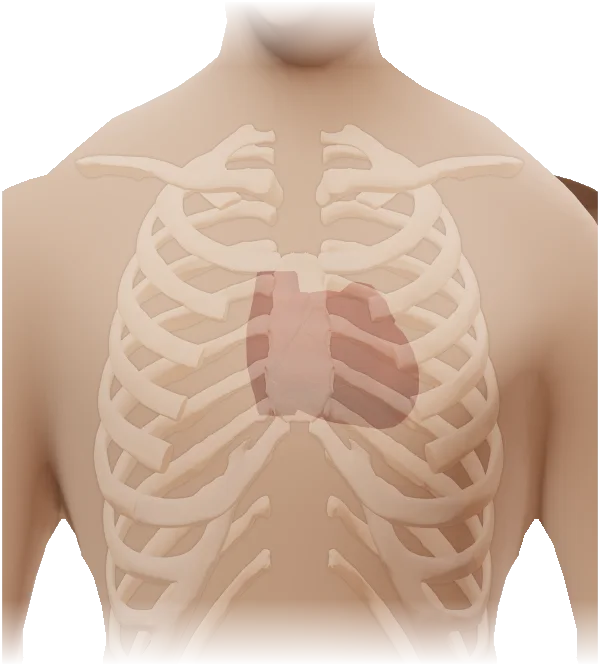
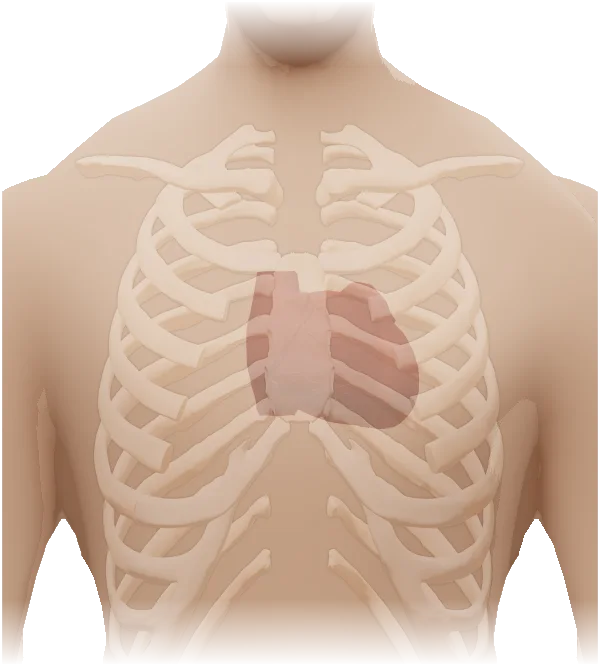
Sound trainer: listening sites on the real chest, placed by landmarks
The chest was a hand-drawn outline with schematic ribs. It is now the body
map's model rendered flat with ribs, costal cartilages, sternum, clavicles
and heart faintly under the skin (back: scapulae, spine, ribs), and each of
the 14 sites sits where the skeleton puts it, measured in 3D and projected:
aortic/pulmonic at the 2nd ICS sternal borders, Erb's at the 3rd left,
tricuspid at the 4th-5th lower left sternal border, mitral at the 5th ICS
left MCL, lung apices below the clavicles at the MCL, bases at the 7th rib's
midaxillary point, posterior sites from the scapulae. ICS numbers and MCL
guides drawn from the same data. Per-site sound mix, strips and quizzes
unchanged. Credit for the derived figure added.

Claude-Session: https://claude.ai/code/session_01UeWTEQ6NVFRbpLu7WhKKom

diff --git a/nremt/assets/sound-stage.js b/nremt/assets/sound-stage.js
@@ -5,13 +5,18 @@
    One job: hear each sound where it is actually listened for, and see when
    in the heartbeat or the breath it falls.
 
-   Why a 2D chest and not the 3D body (LevlBodyViewer): auscultation points
-   are defined by surface landmarks (the 2nd intercostal space at the right
-   sternal border, the 5th at the midclavicular line). The 3D model is bones
-   and organs, 4 MB, lazy-loaded, and rotates; on a 390 px phone five heart
-   sites sit within about 2 cm of each other on it and a rotated view moves
-   them. A flat front and back view with the ribs drawn puts each site at a
-   fixed, countable place, loads at once and is tappable on a phone.
+   Why a flat chest and not the live 3D body (LevlBodyViewer): auscultation
+   points are defined by surface landmarks (the 2nd intercostal space at the
+   right sternal border, the 5th at the midclavicular line). The 3D model is
+   4 MB, lazy-loaded, and rotates; on a 390 px phone five heart sites sit
+   within about 2 cm of each other on it and a rotated view moves them. So the
+   same model is rendered flat instead (scripts/build-body-figures.mjs): the
+   torso with its ribs, costal cartilages, sternum, clavicles and heart (back:
+   scapulae, spine and ribs) faintly under the skin, and every site placed from
+   the skeleton's own landmarks, measured in 3D and projected (the rib ends
+   give the intercostal spaces, the clavicles the midclavicular lines, the 7th
+   rib's lateral point the midaxillary line, the scapulae the posterior sites).
+   The drawing's x, y below are the fallback until that data loads.
 
    Modes: explore (pick a finding, tap a site, hear it there, see the strip,
    compare two side by side), where (tap where you would listen for X) and
@@ -31,50 +36,51 @@
   function say(t){ if(window.LevlAnnounce) window.LevlAnnounce.say(t); }
 
   /* ---- The sites ---------------------------------------------------------
-     x, y in a 300 x 330 drawing of the torso. Front view: the patient's right
+     x, y in the 600 x 660 chest figure (replaced by the measured landmarks
+     from body-figs/chest.js when it loads). Front view: the patient's right
      is on the viewer's left. Back view: the patient's left is on the viewer's
      left. */
   var SITES = [
-    { id:'trachea',  view:'front', x:150, y:22,  kind:'airway', name:'Over the trachea',
+    { id:'trachea',  view:'front', x:300, y:44,  kind:'airway', name:'Over the trachea',
       where:'Front of the neck, above the sternal notch.',
       note:'Stridor is made in the upper airway, so it is loudest here; often you can hear it without a stethoscope.' },
-    { id:'aortic',   view:'front', x:128, y:100, kind:'heart', name:'Aortic area',
+    { id:'aortic',   view:'front', x:256, y:200, kind:'heart', name:'Aortic area',
       where:'2nd intercostal space, right sternal border.',
       note:'The base of the heart: S2 is louder than S1 here. The murmur of aortic stenosis is loudest here and carries up into the neck.' },
-    { id:'pulmonic', view:'front', x:172, y:100, kind:'heart', name:'Pulmonic area',
+    { id:'pulmonic', view:'front', x:344, y:200, kind:'heart', name:'Pulmonic area',
       where:'2nd intercostal space, left sternal border.',
       note:'Also the base, so S2 is loud. The pulmonic part of S2 (P2) is soft and heard mainly here, which makes this the place to hear S2 split.' },
-    { id:'erb',      view:'front', x:172, y:126, kind:'heart', name:'Erb’s point',
+    { id:'erb',      view:'front', x:344, y:252, kind:'heart', name:'Erb’s point',
       where:'3rd intercostal space, left sternal border.',
       note:'Halfway between base and apex: S1 and S2 come through about equally. The diastolic murmur of aortic regurgitation is often loudest here.' },
-    { id:'tricuspid',view:'front', x:166, y:158, kind:'heart', name:'Tricuspid area',
+    { id:'tricuspid',view:'front', x:332, y:316, kind:'heart', name:'Tricuspid area',
       where:'4th to 5th intercostal space, lower left sternal border.',
       note:'Over the right ventricle. S1 is louder than S2 here.' },
-    { id:'mitral',   view:'front', x:212, y:170, kind:'heart', name:'Mitral area (apex)',
+    { id:'mitral',   view:'front', x:424, y:340, kind:'heart', name:'Mitral area (apex)',
       where:'5th intercostal space, left midclavicular line.',
       note:'The apex: S1 is loudest here. S3 and S4 are best heard here with the bell, with the patient rolled onto the left side.' },
-    { id:'lung-ru',  view:'front', x:86,  y:84,  kind:'lung', side:'right', level:'upper', name:'Right lung apex',
+    { id:'lung-ru',  view:'front', x:172, y:168,  kind:'lung', side:'right', level:'upper', name:'Right lung apex',
       where:'Just below the right clavicle, midclavicular line.',
       note:'Compare with the same spot on the left: a difference side to side is the finding.' },
-    { id:'lung-lu',  view:'front', x:214, y:76,  kind:'lung', side:'left', level:'upper', name:'Left lung apex',
+    { id:'lung-lu',  view:'front', x:428, y:152,  kind:'lung', side:'left', level:'upper', name:'Left lung apex',
       where:'Just below the left clavicle, midclavicular line.',
       note:'Compare with the same spot on the right.' },
-    { id:'lung-rl',  view:'front', x:52,  y:214, kind:'lung', side:'right', level:'lower', name:'Right lung base (side)',
+    { id:'lung-rl',  view:'front', x:104, y:428, kind:'lung', side:'right', level:'lower', name:'Right lung base (side)',
       where:'Right midaxillary line, lower ribs.',
       note:'The bases are where fluid settles, so the crackles of early pulmonary edema show up here first.' },
-    { id:'lung-ll',  view:'front', x:248, y:214, kind:'lung', side:'left', level:'lower', name:'Left lung base (side)',
+    { id:'lung-ll',  view:'front', x:496, y:428, kind:'lung', side:'left', level:'lower', name:'Left lung base (side)',
       where:'Left midaxillary line, lower ribs.',
       note:'Compare with the right base at the same level.' },
-    { id:'back-lu',  view:'back',  x:118, y:96,  kind:'lung', side:'left', level:'upper', name:'Left upper back',
+    { id:'back-lu',  view:'back',  x:236, y:192,  kind:'lung', side:'left', level:'upper', name:'Left upper back',
       where:'Between the left shoulder blade and the spine.',
       note:'Most lung tissue lies behind: the back is where breath sounds are easiest to compare side to side.' },
-    { id:'back-ru',  view:'back',  x:182, y:96,  kind:'lung', side:'right', level:'upper', name:'Right upper back',
+    { id:'back-ru',  view:'back',  x:364, y:192,  kind:'lung', side:'right', level:'upper', name:'Right upper back',
       where:'Between the right shoulder blade and the spine.',
       note:'Compare with the left at the same level.' },
-    { id:'back-ll',  view:'back',  x:104, y:226, kind:'lung', side:'left', level:'lower', name:'Left lower back (base)',
+    { id:'back-ll',  view:'back',  x:208, y:452, kind:'lung', side:'left', level:'lower', name:'Left lower back (base)',
       where:'Below the tip of the left shoulder blade.',
       note:'The lung bases are largely posterior. Crackles from fluid are heard here first, in a patient sitting up.' },
-    { id:'back-rl',  view:'back',  x:196, y:226, kind:'lung', side:'right', level:'lower', name:'Right lower back (base)',
+    { id:'back-rl',  view:'back',  x:392, y:452, kind:'lung', side:'right', level:'lower', name:'Right lower back (base)',
       where:'Below the tip of the right shoulder blade.',
       note:'Compare with the left base at the same level.' }
   ];
@@ -159,45 +165,37 @@
     if(parent) parent.appendChild(n);
     return n;
   }
-  var HALF = [[128,0],[128,34],[96,44],[62,52],[38,64],[26,90],[32,130],[38,180],[40,240],[46,290],[52,330]];
-  function torsoPath(){
-    var l = HALF.map(function(p){ return p[0] + ' ' + p[1]; });
-    var r = HALF.slice().reverse().map(function(p){ return (300 - p[0]) + ' ' + p[1]; });
-    return 'M' + l.join(' L') + ' L' + r.join(' L') + ' Z';
-  }
-  function drawBody(svg, view){
-    while(svg.firstChild) svg.removeChild(svg.firstChild);
-    var g = el('g', { 'aria-hidden':'true' }, svg);
-    el('path', { d: torsoPath(), class:'st-skin' }, g);
-    if(view === 'front'){
-      // lungs and heart, faint
-      el('path', { d:'M138 64 C110 60 70 80 60 140 C54 190 56 230 62 252 C90 246 120 238 136 232 Z', class:'st-organ' }, g);
-      el('path', { d:'M162 64 C190 60 230 80 240 140 C246 190 244 230 238 252 C214 246 200 240 196 236 C206 200 204 170 190 150 C180 120 168 100 162 64 Z', class:'st-organ' }, g);
-      el('path', { d:'M136 104 C150 96 176 100 190 116 C210 138 222 160 214 178 C200 190 170 184 150 172 C132 160 124 128 136 104 Z', class:'st-heart' }, g);
-      // ribs and intercostal spaces
-      for(var i = 0; i < 7; i++){
-        var y = 66 + i * 22 + (i ? 4 : 0);
-        el('path', { d:'M140 ' + y + ' Q100 ' + (y + 4) + ' ' + (58 - i) + ' ' + (y + 22), class:'st-rib' }, g);
-        el('path', { d:'M160 ' + y + ' Q200 ' + (y + 4) + ' ' + (242 + i) + ' ' + (y + 22), class:'st-rib' }, g);
-      }
-      el('path', { d:'M146 56 Q110 46 66 54 M154 56 Q190 46 234 54', class:'st-bone' }, g); // clavicles
-      el('rect', { x:141, y:56, width:18, height:136, rx:7, class:'st-bone st-sternum' }, g);
-      // landmark lines
-      el('line', { x1:86, y1:60, x2:86, y2:260, class:'st-guide' }, g);
-      el('line', { x1:214, y1:60, x2:214, y2:260, class:'st-guide' }, g);
-      ['2','3','4','5'].forEach(function(n, k){
-        var t = el('text', { x:150, y:104 + k * 24, class:'st-ics' }, g); t.textContent = n;
+  /* Site positions from the rendered figure's measured landmarks. */
+  function placeSites(F){
+    ['front', 'back'].forEach(function(v){
+      var f = F && F.figs['chest-' + v];
+      if(!f) return;
+      SITES.forEach(function(s){
+        var p = s.view === v && f.landmarks[s.id];
+        if(p){ s.x = p[0]; s.y = p[1]; }
       });
-      lab(g, 18, 18, 'R'); lab(g, 282, 18, 'L');
-      var cap = el('text', { x:86, y:274, class:'st-cap' }, g); cap.textContent = 'MCL';
-      var cap2 = el('text', { x:214, y:274, class:'st-cap' }, g); cap2.textContent = 'MCL';
+    });
+  }
+  function drawBody(svg, view, F){
+    while(svg.firstChild) svg.removeChild(svg.firstChild);
+    var f = F && F.figs['chest-' + view];
+    svg.setAttribute('viewBox', '0 0 600 660');
+    var g = el('g', { 'aria-hidden':'true' }, svg);
+    if(!f) return;
+    el('image', { href: F.url(f), width: f.w, height: f.h, class:'st-img' }, g);
+    var L = f.landmarks;
+    if(view === 'front'){
+      // the midclavicular lines and the intercostal space numbers at the left sternal border
+      L.mclX.forEach(function(x){ el('line', { x1:x, y1:L.mclTop, x2:x, y2:L.mclBottom, class:'st-guide' }, g); });
+      var ex = L.sternumX - L.sternalHalfPx - 66;
+      [2, 3, 4, 5].forEach(function(n){
+        var t = el('text', { x: ex, y: L.icsY[n], class:'st-ics', dy:'0.35em' }, g); t.textContent = n;
+      });
+      var cap = el('text', { x: ex, y: L.icsY[5] + 36, class:'st-cap' }, g); cap.textContent = 'ICS';
+      L.mclX.forEach(function(x){ var c = el('text', { x:x, y:L.mclBottom + 22, class:'st-cap' }, g); c.textContent = 'MCL'; });
+      lab(g, 30, 40, 'R'); lab(g, 570, 40, 'L');
     } else {
-      el('path', { d:'M138 60 C110 56 66 80 58 150 C52 210 56 250 64 272 L138 272 Z', class:'st-organ' }, g);
-      el('path', { d:'M162 60 C190 56 234 80 242 150 C248 210 244 250 236 272 L162 272 Z', class:'st-organ' }, g);
-      for(var v = 0; v < 13; v++) el('rect', { x:144, y:40 + v * 19, width:12, height:13, rx:3, class:'st-bone' }, g);
-      el('path', { d:'M66 66 L132 70 L120 112 L94 178 Z', class:'st-scap' }, g);
-      el('path', { d:'M234 66 L168 70 L180 112 L206 178 Z', class:'st-scap' }, g);
-      lab(g, 18, 18, 'L'); lab(g, 282, 18, 'R');
+      lab(g, 30, 40, 'L'); lab(g, 570, 40, 'R');
     }
   }
   function lab(g, x, y, t){ var n = el('text', { x:x, y:y, class:'st-rl' }, g); n.textContent = t; }
@@ -207,10 +205,10 @@
     SITES.filter(function(s){ return s.view === view; }).forEach(function(s){
       var g = el('g', { class:'st-site st-site--' + s.kind, 'data-site': s.id, role:'button', tabindex:'0',
         'aria-label': s.name + ', ' + s.where }, svg);
-      el('circle', { cx:s.x, cy:s.y, r:22, class:'st-halo' }, g);
-      el('circle', { cx:s.x, cy:s.y, r:19, class:'st-hit' }, g);
-      el('circle', { cx:s.x, cy:s.y, r:10, class:'st-dot' }, g);
-      el('circle', { cx:s.x, cy:s.y, r:3.5, class:'st-core' }, g);
+      el('circle', { cx:s.x, cy:s.y, r:40, class:'st-halo' }, g);
+      el('circle', { cx:s.x, cy:s.y, r:34, class:'st-hit' }, g);
+      el('circle', { cx:s.x, cy:s.y, r:17, class:'st-dot' }, g);
+      el('circle', { cx:s.x, cy:s.y, r:6, class:'st-core' }, g);
       g.addEventListener('click', function(){ opts.onTap(s); });
       g.addEventListener('keydown', function(e){
         if(e.key === 'Enter' || e.key === ' '){ e.preventDefault(); opts.onTap(s); }
@@ -442,7 +440,8 @@
         '<div class="st-fig">' +
           '<div class="st-views" role="group" aria-label="Side of the body">' +
             '<button type="button" data-view="front">Front</button><button type="button" data-view="back">Back</button></div>' +
-          '<svg class="st-body" viewBox="0 0 300 330" aria-label="Chest, front view. Each listening spot is a button."></svg>' +
+          '<svg class="st-body" viewBox="0 0 600 660" aria-label="Chest, front view. Each listening spot is a button."></svg>' +
+          '<p class="st-credit">Figure rendered from <a href="https://lifesciencedb.jp/bp3d/" target="_blank" rel="noopener">BodyParts3D</a>, © 2008 Life Science Integrated Database Center, <a href="https://creativecommons.org/licenses/by-sa/2.1/jp/deed.en" target="_blank" rel="noopener">CC BY-SA 2.1 Japan</a>.</p>' +
         '</div>' +
         '<div class="st-side"></div>' +
       '</div>' +
@@ -454,7 +453,12 @@
     var main = root.querySelector('.st-main');
     var timingBox = root.querySelector('.st-timing');
     var quizSection = opts.quizSection;
-    var siteEls = {};
+    var siteEls = {}, figs = null;
+    if(window.LevlBodyFigs) window.LevlBodyFigs.load('chest', function(F){
+      if(!F) return;
+      figs = F; placeSites(F);
+      if(typeof st !== "undefined" && st && st.view) setView(st.view);
+    });
 
     /* volume */
     var mute = root.querySelector('.st-mute'), range = root.querySelector('.st-range');
@@ -487,7 +491,7 @@
       st.view = v;
       root.querySelectorAll('[data-view]').forEach(function(b){ b.setAttribute('aria-pressed', b.dataset.view === v ? 'true' : 'false'); });
       svg.setAttribute('aria-label', 'Chest, ' + (v === 'front' ? 'front' : 'back') + ' view. Each listening spot is a button.');
-      drawBody(svg, v);
+      drawBody(svg, v, figs);
       siteEls = drawSites(svg, v, { onTap: tapSite });
       paintSites();
       if(st.mode === 'where' && st.whereAnswered && st.where){
@@ -554,7 +558,7 @@
         var halo = g.querySelector('.st-halo');
         if(st.mode === 'explore' && sound){
           var k = strength(sound, s);
-          halo.setAttribute('r', (11 + 9 * k).toFixed(1));
+          halo.setAttribute('r', (20 + 18 * k).toFixed(1));
           halo.style.opacity = (0.06 + 0.34 * k).toFixed(2);
           g.classList.toggle('is-best', BEST[sound.id] && BEST[sound.id].at.indexOf(id) >= 0);
         } else {

diff --git a/nremt/sound-trainer.html b/nremt/sound-trainer.html
@@ -36,6 +36,7 @@
      Blocking, because the inline script below calls it while rendering. -->
 <script src="assets/sound-bank.js" defer></script>
 <script src="assets/tool-results.js" defer></script>
+<script src="assets/body-figures.js" defer></script>
 <script src="assets/sound-stage.js" defer></script>
 <link rel="stylesheet" href="../assets/fonts/fonts.css">
 <style>
@@ -205,35 +206,32 @@
   .st-fig{position:relative;background:var(--white);border:2px solid var(--line);border-radius:var(--radius);box-shadow:var(--lift);padding:10px 10px 4px;}
   .st-views{position:absolute;top:10px;right:10px;display:flex;gap:4px;z-index:1;}
   .st-views button{padding:5px 12px;font-size:12.5px;min-height:40px;}
-  .st-body{display:block;width:100%;max-width:360px;margin:0 auto;height:auto;touch-action:manipulation;}
-  @media (max-width:760px){.st-body{max-height:44vh;}}
-  .st-skin{fill:var(--surface2);stroke:var(--line);stroke-width:2;}
-  .st-organ{fill:var(--ctint);opacity:.75;}
-  .st-heart{fill:#E7B9AE;opacity:.55;}
-  [data-theme="dark"] .st-heart{fill:#7A3B33;opacity:.6;}
-  .st-rib{fill:none;stroke:var(--muted);stroke-width:1.2;opacity:.28;}
-  .st-bone{fill:var(--paper);stroke:var(--muted);stroke-width:1.4;opacity:.75;}
-  .st-scap{fill:var(--paper);stroke:var(--muted);stroke-width:1.2;opacity:.55;}
-  .st-guide{stroke:var(--muted);stroke-width:1;stroke-dasharray:3 4;opacity:.35;}
-  .st-ics{font:700 9px var(--font-mono);fill:var(--muted);text-anchor:middle;}
-  .st-cap{font:600 9px var(--font-mono);fill:var(--muted);text-anchor:middle;}
-  .st-rl{font:800 13px var(--font-ui);fill:var(--muted);text-anchor:middle;}
+  .st-body{display:block;width:100%;max-width:420px;margin:0 auto;height:auto;touch-action:manipulation;overflow:visible;}
+  @media (max-width:760px){.st-body{max-height:52vh;}}
+  .st-img{filter:drop-shadow(0 4px 10px rgba(80,45,30,.12));}
+  [data-theme="dark"] .st-img{filter:brightness(.88);}
+  .st-guide{stroke:#fff;stroke-width:1.4;stroke-dasharray:5 6;opacity:.8;vector-effect:non-scaling-stroke;}
+  .st-ics{font:800 19px var(--font-mono);fill:#5B3A2A;text-anchor:middle;paint-order:stroke;stroke:rgba(255,246,238,.85);stroke-width:5px;stroke-linejoin:round;}
+  .st-cap{font:700 16px var(--font-mono);fill:#5B3A2A;text-anchor:middle;letter-spacing:.04em;paint-order:stroke;stroke:rgba(255,246,238,.85);stroke-width:5px;stroke-linejoin:round;}
+  .st-rl{font:800 26px var(--font-ui);fill:var(--muted);text-anchor:middle;}
+  .st-credit{font-size:10.5px;color:var(--muted);text-align:center;margin:4px 0 2px;line-height:1.4;}
+  .st-credit a{color:var(--muted);}
   .st-site{cursor:pointer;outline:none;}
   .st-hit{fill:transparent;}
   .st-halo{fill:var(--accent);opacity:0;transition:r .25s,opacity .25s;}
   .st-site--lung .st-halo,.st-site--airway .st-halo{fill:#3C7FC0;}
-  .st-dot{fill:var(--white);stroke:var(--accent);stroke-width:2.5;transition:stroke-width .15s;}
+  .st-dot{fill:rgba(255,255,255,.92);stroke:var(--accent);stroke-width:4;transition:stroke-width .15s;filter:drop-shadow(0 1px 2px rgba(0,0,0,.25));}
   .st-site--lung .st-dot,.st-site--airway .st-dot{stroke:#3C7FC0;}
   .st-core{fill:var(--accent);}
   .st-site--lung .st-core,.st-site--airway .st-core{fill:#3C7FC0;}
-  .st-site.is-best .st-dot{stroke-width:4.5;}
+  .st-site.is-best .st-dot{stroke-width:7;}
   .st-site.is-on .st-dot{fill:var(--accent);}
   .st-site--lung.is-on .st-dot,.st-site--airway.is-on .st-dot{fill:#3C7FC0;}
   .st-site:focus-visible .st-dot,.st-site:hover .st-dot{stroke:var(--ink);}
   .st-site.is-playing .st-halo{animation:stPulse 1s ease-in-out infinite;}
   @keyframes stPulse{50%{opacity:.15;}}
-  .st-site.is-right .st-dot{fill:var(--good);stroke:var(--good-text);stroke-width:4;}
-  .st-site.is-wrong .st-dot{fill:var(--bad);stroke:var(--bad-text);stroke-width:4;}
+  .st-site.is-right .st-dot{fill:var(--good);stroke:var(--good-text);stroke-width:6;}
+  .st-site.is-wrong .st-dot{fill:var(--bad);stroke:var(--bad-text);stroke-width:6;}
   .st-side{min-width:0;}
   .st-k{display:block;font:700 10.5px var(--font-mono);text-transform:uppercase;letter-spacing:.06em;color:var(--muted);margin-bottom:6px;}
   .st-row .st-k{margin:0;}

diff --git a/scripts/body-figures/render.js b/scripts/body-figures/render.js
@@ -163,9 +163,10 @@ function renderMeshes(view, meshes, light){
   cam.up.set(0, 0, 1); cam.position.set(0, s * 3000, 0); cam.lookAt(0, 0, 0);
   scene.add(new THREE.HemisphereLight(light.sky || 0xfff6ee, light.ground || 0x6e5246, light.hemi || 1.45));
   // key from upper viewer-left, a cool rim from behind the other side, a low warm fill
-  const key = new THREE.DirectionalLight(0xffffff, light.key || 2.1); key.position.set(-700 * -s, s * 1400, 2300); scene.add(key);
-  const rim = new THREE.DirectionalLight(0xdfe9ff, light.rim || 1.1); rim.position.set(1100 * -s, -s * 900, 1500); scene.add(rim);
-  const fill = new THREE.DirectionalLight(0xffe6d6, light.fill || 0.55); fill.position.set(900 * -s, s * 1600, 300); scene.add(fill);
+  const sym = light.sym ? 0 : 1;
+  const key = new THREE.DirectionalLight(0xffffff, light.key || 2.1); key.position.set(sym * -700 * -s, s * 1400, 2300); scene.add(key);
+  const rim = new THREE.DirectionalLight(0xdfe9ff, light.rim || 1.1); rim.position.set(sym * 1100 * -s, -s * 900, 1500); scene.add(rim);
+  const fill = new THREE.DirectionalLight(0xffe6d6, light.fill || 0.55); fill.position.set(sym * 900 * -s, s * 1600, 300); scene.add(fill);
   renderer.render(scene, cam);
   const c = document.createElement('canvas'); c.width = view.w; c.height = view.h;
   const x = c.getContext('2d'); x.imageSmoothingQuality = 'high';
@@ -447,11 +448,18 @@ window.renderFigures = async function(){
     const part = (names, mat) => names.filter(k => M[k]).map(k => new THREE.Mesh(partGeometry(M[k]), mat));
     for(const side of ['front', 'back']){
       const view = makeView(frame, side, pxPerMm);
-      const skin = renderMeshes(view, [new THREE.Mesh(geo, skinMat())], {});
+      // lit from straight ahead, so the two sides match and the mesh's one-sided flaps can be repaired from the mirror image
+      const skin = renderMeshes(view, [new THREE.Mesh(geo, skinMat())], { sym:true, key:2.3, rim:0.5 });
       const mask = cleanSilhouette(skin, { open: 3 });
-      { // symmetric, as in the full figures: the mesh has a flap on one shoulder
-        const w = view.w, h = view.h, c = new Uint8Array(mask), x2 = skin.getContext('2d'), im = x2.getImageData(0, 0, w, h);
-        for(let y = 0; y < h; y++) for(let x = 0; x < w; x++){ const i = y * w + x; mask[i] = c[i] && c[y*w + w - 1 - x]; if(!mask[i]) im.data[i*4+3] = 0; }
+      {
+        const w = view.w, h = view.h, c = new Uint8Array(mask), x2 = skin.getContext('2d'), im = x2.getImageData(0, 0, w, h), d = im.data, src = new Uint8ClampedArray(d);
+        const lum = i => 0.3 * src[i*4] + 0.59 * src[i*4+1] + 0.11 * src[i*4+2];
+        for(let y = 0; y < h; y++) for(let x = 0; x < w; x++){
+          const i = y * w + x, j = y * w + w - 1 - x;
+          mask[i] = c[i] && c[j];
+          if(!mask[i]){ d[i*4+3] = 0; continue; }
+          if(lum(i) < lum(j) * 0.9){ d[i*4] = src[j*4]; d[i*4+1] = src[j*4+1]; d[i*4+2] = src[j*4+2]; }
+        }
         x2.putImageData(im, 0, 0);
       }
       const bones = side === 'front'
